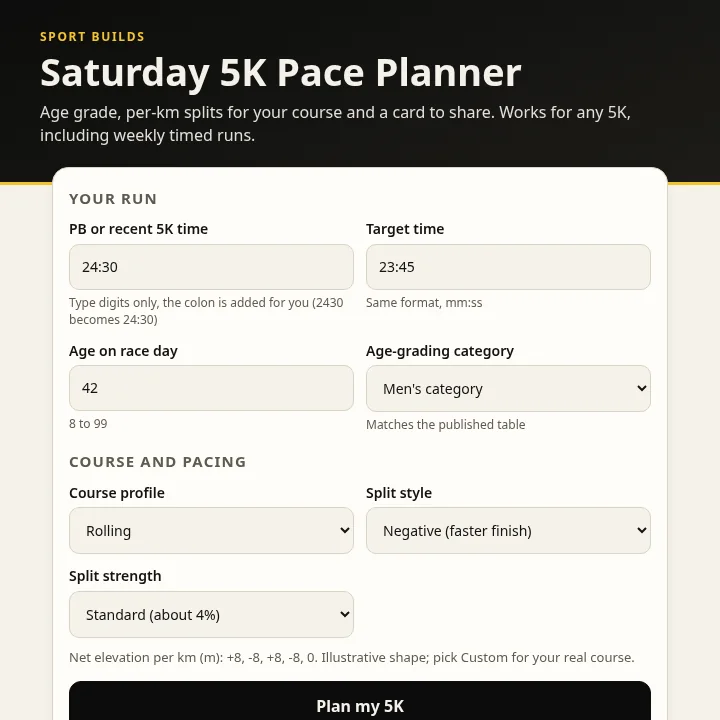
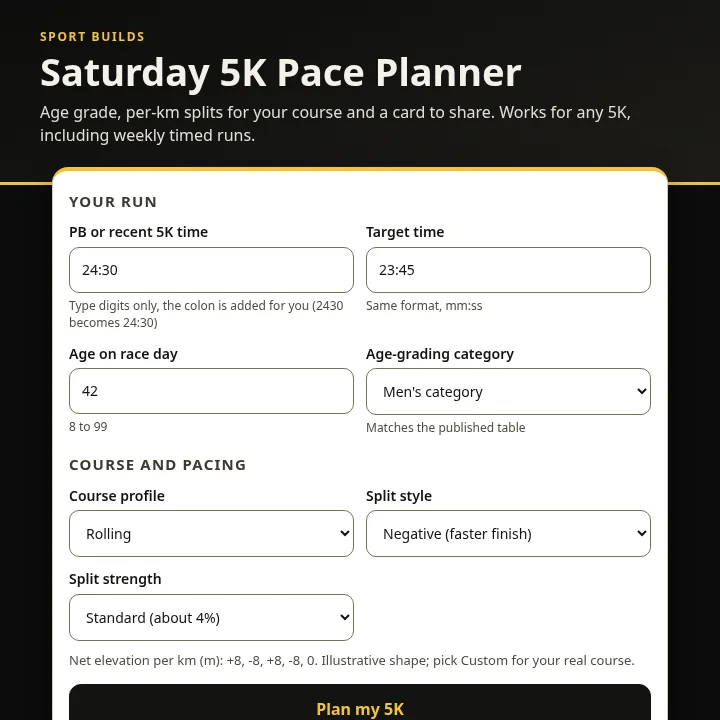
Refresh planner screenshots for the white input card (dark mode shots); build log

diff --git a/docs/BUILD_LOG.md b/docs/BUILD_LOG.md
@@ -177,3 +177,6 @@ Fix:
 ## Round 7: planner subdomain is live, fallback link removed (Mon 26 Oct, afternoon Europe/London)
 - `5k.sportbuilds.co` now serves the planner over HTTPS (CNAME added at Namecheap with Tim's approval). Removed `fallbackUrl` from issue 1 in `data/builds.json`, so the home and archive entries link only to `https://5k.sportbuilds.co` and the "Also available at" line is gone. The README keeps the `vercel.app` alias as an alternate; `tools/make-planner-shots.mjs` now defaults to the new address.
 - Checked home, archive, welcome and sitemap: no `vercel.app` references remain in built pages. 17 tests pass; deployed with `npm run deploy`; live check on pages.dev with `tools/verify.mjs`: all pages 200 (404 page 404), strict CSP present, no console errors, no external requests.
+
+## Planner screenshots refreshed for the white input card (Mon 26 Oct, about 14:40 Europe/London)
+- The planner's input card is now white. Re-ran `tools/make-planner-shots.mjs` against https://5k.sportbuilds.co/ (now in dark mode so the white card stands out; 0 green-ish pixels), rebuilt, `npm run deploy`, and checked that the live preview serves the new hashed images (byte-identical to `dist/`). No code changes besides the colour scheme in the shot script.
